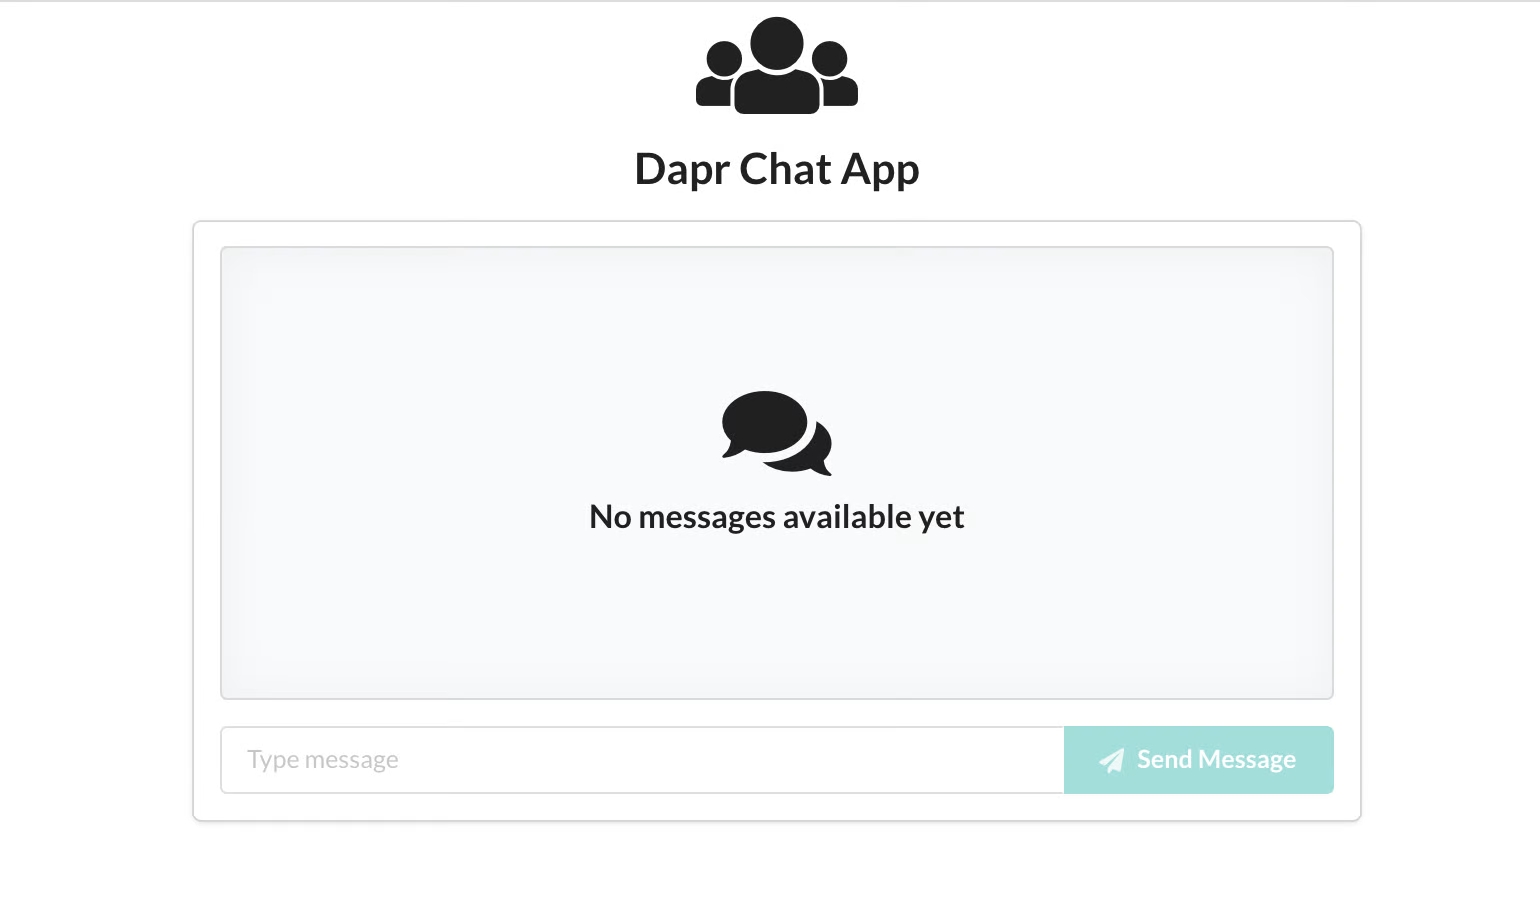
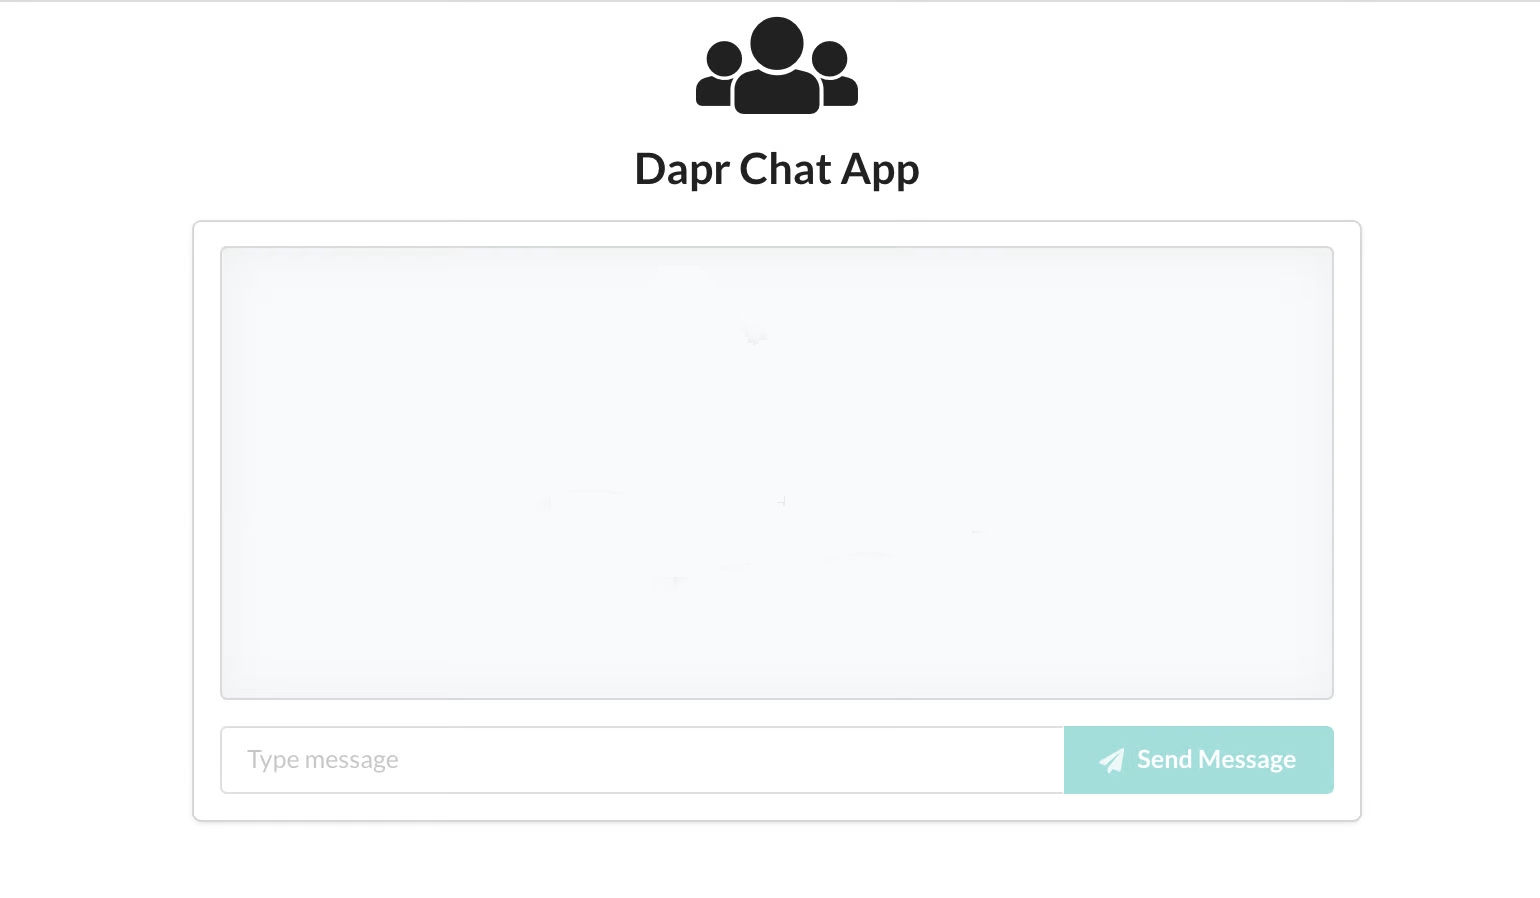
change background

Changed region(s): [[0.4675, 0.4365, 0.561, 0.5301], [0.374, 0.5612, 0.6234, 0.5924]]

diff --git a/style.css b/style.css
@@ -10,13 +10,13 @@
 
 
 body {
-  background-image: url('SplitShire-8098-1800x1200.jpg');
-  background-size: 220%;
+  background-image: url('daprchatappstep1.jpg');
   background-repeat:   no-repeat;
+  background-position:top;
     font-family: "Merchant Ledger";
   text-align: center;
-  color:#fff;
-  padding-top:9em;
+  color: black;
+  padding-top:10em;
   font-size: 30px;
 }
 
@@ -51,7 +51,7 @@ button{
 }
 
 .typewriter{
-  width: 60vw;
+  width: 53vw;
   word-wrap: break-word;
   overflow-wrap: break-word;
   margin: 0 auto;
@@ -59,7 +59,7 @@ button{
 }
 
 div{
-  font-size: 60px;
+  font-size: 65px;
 }
 
 @keyframes typing{
